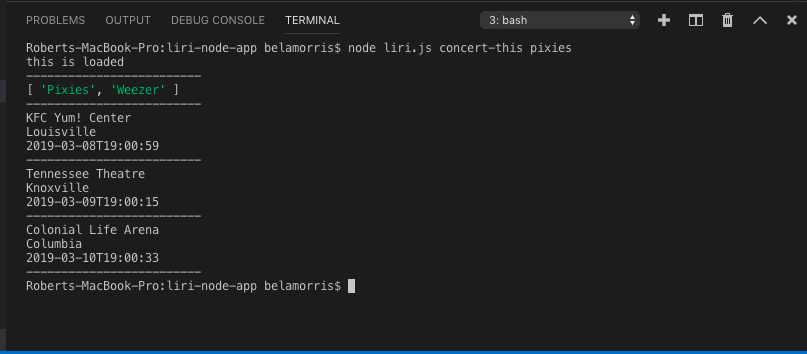
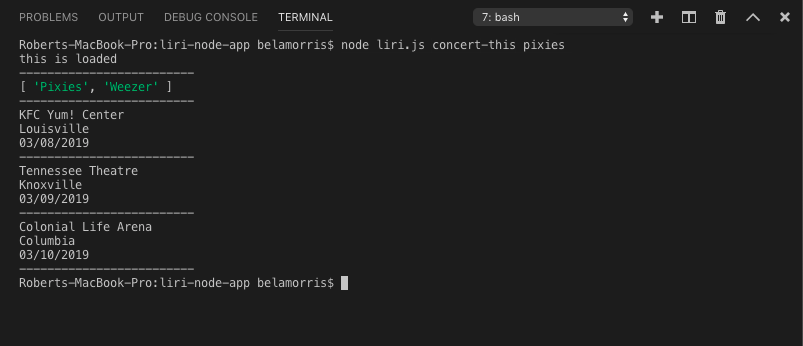
finished the moment for concert-this date

Changed region(s): [[0.0, 0.0289, 0.7161, 0.8382], [0.0, 0.0, 1.0, 1.0]]

diff --git a/liri.js b/liri.js
@@ -65,13 +65,23 @@ switch (command) {
         doThing();
         break;
 }
-//the concert-this axios function still need to do the moment for the date
+//the concert-this axios function 
 function concertThis(title) {
     // Then run a request with axios to the OMDB API with the movie specified
     var queryUrl = "https://rest.bandsintown.com/artists/" + title + "/events?app_id=codingbootcamp";
-//function to consolelog the axios response 
+    //function to consolelog the axios response 
     axios.get(queryUrl).then(
         function (response) {
+            //turning the response date into a variable
+            var date1 = response.data[0].datetime;
+            var date2 = response.data[1].datetime;
+            var date3 = response.data[2].datetime;
+            //taking that date and changing the format with moment.
+            var mdate1 = moment(date1).format("MM/DD/YYYY");
+            var mdate2 = moment(date2).format("MM/DD/YYYY");
+            var mdate3 = moment(date3).format("MM/DD/YYYY");
+
+
             console.log("-------------------------");
             //log the lineup
             console.log(response.data[0].lineup);
@@ -79,17 +89,17 @@ function concertThis(title) {
             //log the venue name, city and date
             console.log(response.data[0].venue.name);
             console.log(response.data[0].venue.city);
-            console.log(response.data[0].datetime);
+            console.log(mdate1);
             console.log("-------------------------");
             //log the second venue name, city and date
             console.log(response.data[1].venue.name);
             console.log(response.data[1].venue.city);
-            console.log(response.data[1].datetime);
+            console.log(mdate2);
             console.log("-------------------------");
             //log the third venue name, city and date
             console.log(response.data[2].venue.name);
             console.log(response.data[2].venue.city);
-            console.log(response.data[2].datetime);
+            console.log(mdate3);
             console.log("-------------------------");
 
             //append info to log.txt
@@ -105,7 +115,7 @@ function concertThis(title) {
             fs.appendFile("log.txt", response.data[0].venue.city, function (err) {
                 if (err) throw err;
             });
-            fs.appendFile("log.txt", response.data[0].datetime, function (err) {
+            fs.appendFile("log.txt", mdate1, function (err) {
                 if (err) throw err;
             });
             fs.appendFile("log.txt", response.data[1].venue.name, function (err) {
@@ -114,7 +124,7 @@ function concertThis(title) {
             fs.appendFile("log.txt", response.data[1].venue.city, function (err) {
                 if (err) throw err;
             });
-            fs.appendFile("log.txt", response.data[1].datetime, function (err) {
+            fs.appendFile("log.txt", mdate2, function (err) {
                 if (err) throw err;
             });
             fs.appendFile("log.txt", response.data[2].venue.name, function (err) {
@@ -123,7 +133,7 @@ function concertThis(title) {
             fs.appendFile("log.txt", response.data[2].venue.city, function (err) {
                 if (err) throw err;
             });
-            fs.appendFile("log.txt", response.data[2].datetime, function (err) {
+            fs.appendFile("log.txt", mdate3, function (err) {
                 if (err) throw err;
             });
 
@@ -236,7 +246,7 @@ function doThing() {
     //reads random.txt file and runs the spotify-this-song function with the info in random.txt
     fs.readFile('random.txt', "utf8", function (error, data) {
         var txt = data.split(',');
-//call to run spotify-this-song function
+        //call to run spotify-this-song function
         spotifySong(txt[1]);
     });
 }
